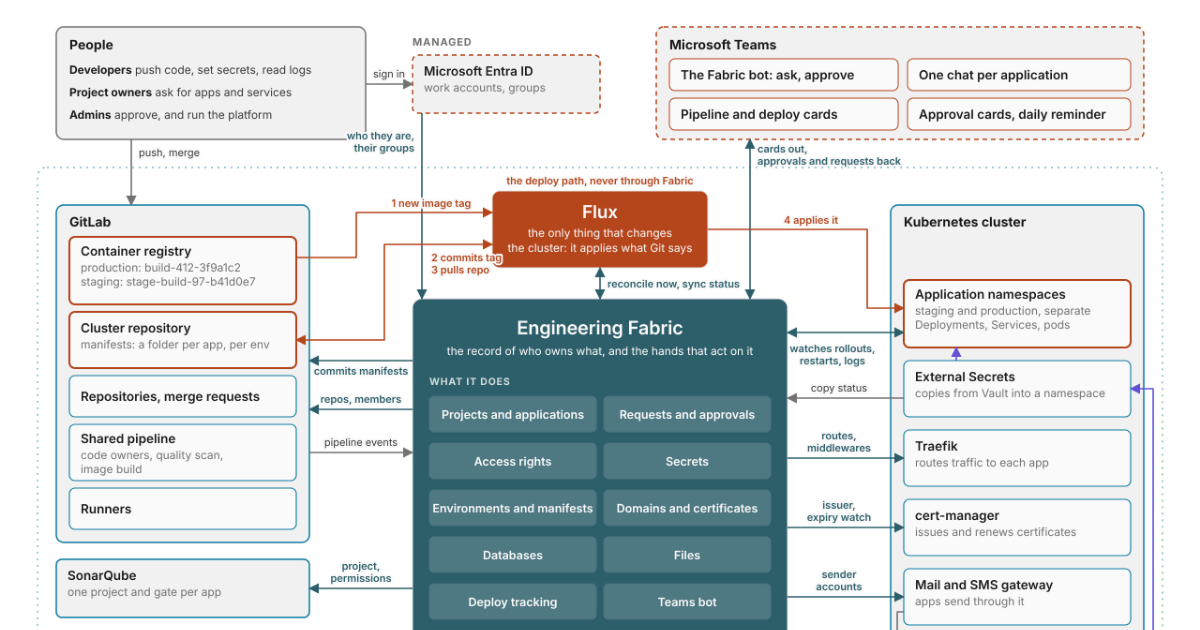
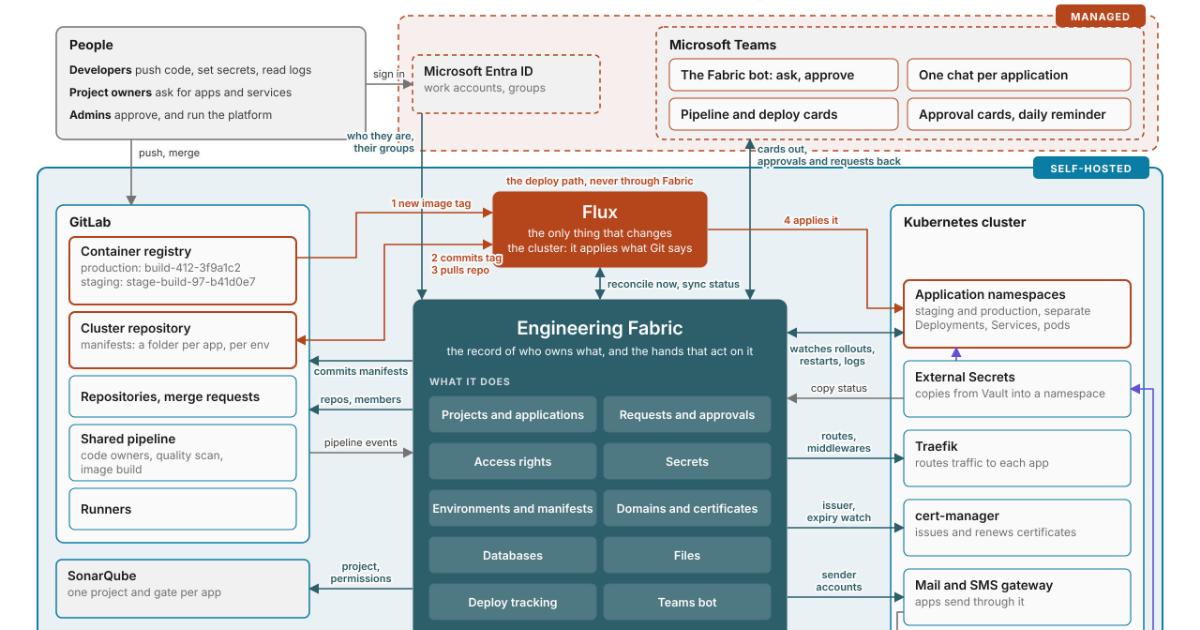
Writing: box the self-hosted and managed groups on the architecture map
Claude-Session: https://claude.ai/code/session_01SaRwWq1zZFY1QVVTNDxtey

diff --git a/blog/how-we-deploy-at-cb/index.html b/blog/how-we-deploy-at-cb/index.html
@@ -42,7 +42,7 @@
 <li>The purple line is the only route a secret value takes: Vault, External Secrets, the application's namespace.</li>
 </ul>
 
-<figure class='dg arch'><div class='dg-wrap'><svg viewBox='0 0 1240 1158' role='img' aria-labelledby='archt archd'><title id='archt'>Architecture: Engineering Fabric and the systems around it</title><desc id='archd'>Developers, project owners and admins sign in through Microsoft Entra ID and are reached in Microsoft Teams. Engineering Fabric, in the centre, creates repositories and sets members in GitLab, creates SonarQube projects, writes secrets to Vault, creates databases, commits manifests to the cluster repository, watches rollouts in Kubernetes, and manages DNS, file storage and API keys at Cloudflare, Backblaze B2 and Google Cloud. Deployments go from GitLab's registry to Flux to the cluster without passing through Fabric. Secret values go from Vault to External Secrets to the application's namespace.</desc><defs><marker id='arch-ink' class='mk-ink' viewBox='0 0 10 10' refX='9' refY='5' markerWidth='7' markerHeight='7' orient='auto-start-reverse'><path d='M0 0L10 5L0 10z'/></marker><marker id='arch-fab' class='mk-fab' viewBox='0 0 10 10' refX='9' refY='5' markerWidth='7' markerHeight='7' orient='auto-start-reverse'><path d='M0 0L10 5L0 10z'/></marker><marker id='arch-dep' class='mk-dep' viewBox='0 0 10 10' refX='9' refY='5' markerWidth='7' markerHeight='7' orient='auto-start-reverse'><path d='M0 0L10 5L0 10z'/></marker><marker id='arch-sec' class='mk-sec' viewBox='0 0 10 10' refX='9' refY='5' markerWidth='7' markerHeight='7' orient='auto-start-reverse'><path d='M0 0L10 5L0 10z'/></marker></defs><rect class='region' x='20' y='180' width='1200' height='848' rx='10'/><text class='grp' x='48' y='1004'>Self-hosted</text><text class='grp' x='420' y='50'>Managed</text><text class='grp' x='36' y='1068'>Managed</text><g class='actor'><rect class='n' x='40' y='30' width='330' height='120' rx='8'/><text class='zt' x='54' y='54'>People</text><text class='pl' x='54' y='80'><tspan class='pb'>Developers</tspan> push code, set secrets, read logs</text><text class='pl' x='54' y='104'><tspan class='pb'>Project owners</tspan> ask for apps and services</text><text class='pl' x='54' y='128'><tspan class='pb'>Admins</tspan> approve, and run the platform</text></g><g class='rent'><rect class='n' x='420' y='60' width='200' height='62' rx='6'/><text class='t' x='432' y='82'>Microsoft Entra ID</text><text x='432' y='99'>work accounts, groups</text></g><g class='rent'><rect class='n' x='680' y='30' width='520' height='120' rx='8'/><text class='zt' x='694' y='54'>Microsoft Teams</text></g><g class='rent in'><rect class='n' x='694' y='64' width='244' height='34' rx='6'/><text class='t' x='706' y='86'>The Fabric bot: ask, approve</text></g><g class='rent in'><rect class='n' x='948' y='64' width='238' height='34' rx='6'/><text class='t' x='960' y='86'>One chat per application</text></g><g class='rent in'><rect class='n' x='694' y='106' width='244' height='34' rx='6'/><text class='t' x='706' y='128'>Pipeline and deploy cards</text></g><g class='rent in'><rect class='n' x='948' y='106' width='238' height='34' rx='6'/><text class='t' x='960' y='128'>Approval cards, daily reminder</text></g><rect class='zone' x='40' y='220' width='270' height='360' rx='8'/><text class='zt' x='54' y='243'>GitLab</text><g class='own in dep'><rect class='n' x='54' y='254' width='242' height='72' rx='6'/><text class='t' x='66' y='274'>Container registry</text><text x='66' y='291'>production: build-412-3f9a1c2</text><text x='66' y='306'>staging: stage-build-97-b41d0e7</text></g><g class='own in dep'><rect class='n' x='54' y='334' width='242' height='60' rx='6'/><text class='t' x='66' y='356'>Cluster repository</text><text x='66' y='373'>manifests: a folder per app, per env</text></g><g class='own in'><rect class='n' x='54' y='402' width='242' height='44' rx='6'/><text class='t' x='66' y='429'>Repositories, merge requests</text></g><g class='own in'><rect class='n' x='54' y='454' width='242' height='60' rx='6'/><text class='t' x='66' y='474'>Shared pipeline</text><text x='66' y='491'>code owners, quality scan,</text><text x='66' y='506'>image build</text></g><g class='own in'><rect class='n' x='54' y='522' width='242' height='44' rx='6'/><text class='t' x='66' y='549'>Runners</text></g><g class='own'><rect class='n' x='40' y='598' width='270' height='62' rx='6'/><text class='t' x='52' y='620'>SonarQube</text><text x='52' y='637'>one project and gate per app</text></g><g class='own'><rect class='n' x='40' y='678' width='270' height='62' rx='6'/><text class='t' x='52' y='700'>Vault</text><text x='52' y='717'>one path per app and environment</text></g><g class='own'><rect class='n' x='40' y='758' width='270' height='62' rx='6'/><text class='t' x='52' y='780'>NetBird and Hoppscotch</text><text x='52' y='797'>VPN, API workspace per app</text></g><g class='own'><rect class='n' x='40' y='838' width='270' height='62' rx='6'/><text class='t' x='52' y='860'>Database servers</text><text x='52' y='877'>PostgreSQL and MySQL</text></g><g class='own'><rect class='n' x='40' y='918' width='270' height='62' rx='6'/><text class='t' x='52' y='940'>Renovate and Trivy</text><text x='52' y='957'>dependency updates, image scans</text></g><g class='flux'><rect x='505' y='205' width='230' height='82' rx='8'/><text class='t' x='620' y='234' text-anchor='middle'>Flux</text><text x='620' y='254' text-anchor='middle'>the only thing that changes</text><text x='620' y='270' text-anchor='middle'>the cluster: it applies what Git says</text></g><g class='hub'><rect x='420' y='320' width='400' height='680' rx='10'/><text class='t' x='620' y='358' text-anchor='middle'>Engineering Fabric</text><text x='620' y='380' text-anchor='middle'>the record of who owns what, and the hands that act on it</text><text class='hg' x='438' y='412'>What it does</text><rect class='chip' x='438' y='424' width='178' height='38' rx='5'/><text class='ct' x='527' y='448' text-anchor='middle'>Projects and applications</text><rect class='chip' x='624' y='424' width='178' height='38' rx='5'/><text class='ct' x='713' y='448' text-anchor='middle'>Requests and approvals</text><rect class='chip' x='438' y='474' width='178' height='38' rx='5'/><text class='ct' x='527' y='498' text-anchor='middle'>Access rights</text><rect class='chip' x='624' y='474' width='178' height='38' rx='5'/><text class='ct' x='713' y='498' text-anchor='middle'>Secrets</text><rect class='chip' x='438' y='524' width='178' height='38' rx='5'/><text class='ct' x='527' y='548' text-anchor='middle'>Environments and manifests</text><rect class='chip' x='624' y='524' width='178' height='38' rx='5'/><text class='ct' x='713' y='548' text-anchor='middle'>Domains and certificates</text><rect class='chip' x='438' y='574' width='178' height='38' rx='5'/><text class='ct' x='527' y='598' text-anchor='middle'>Databases</text><rect class='chip' x='624' y='574' width='178' height='38' rx='5'/><text class='ct' x='713' y='598' text-anchor='middle'>Files</text><rect class='chip' x='438' y='624' width='178' height='38' rx='5'/><text class='ct' x='527' y='648' text-anchor='middle'>Deploy tracking</text><rect class='chip' x='624' y='624' width='178' height='38' rx='5'/><text class='ct' x='713' y='648' text-anchor='middle'>Teams bot</text><rect class='chip' x='438' y='674' width='178' height='38' rx='5'/><text class='ct' x='527' y='698' text-anchor='middle'>Vulnerability scans</text><rect class='chip' x='624' y='674' width='178' height='38' rx='5'/><text class='ct' x='713' y='698' text-anchor='middle'>Audit log</text><text class='hg' x='438' y='770'>How it behaves</text><text class='hn' x='438' y='796'>Every change is recorded: who, what, when.</text><text class='hn' x='438' y='820'>Long jobs are Temporal workflows that resume</text><text class='hn' x='438' y='838'>where they stopped.</text><text class='hn' x='438' y='862'>Never reads a Kubernetes Secret.</text><text class='hn' x='438' y='886'>Changes the cluster only through Git.</text><text class='hn' x='438' y='910'>Deployed the same way as every other app.</text></g><rect class='zone' x='930' y='220' width='270' height='780' rx='8'/><text class='zt' x='944' y='243'>Kubernetes cluster</text><g class='own in dep'><rect class='n' x='944' y='300' width='242' height='72' rx='6'/><text class='t' x='956' y='320'>Application namespaces</text><text x='956' y='337'>staging and production, separate</text><text x='956' y='352'>Deployments, Services, pods</text></g><g class='own in'><rect class='n' x='944' y='386' width='242' height='60' rx='6'/><text class='t' x='956' y='408'>External Secrets</text><text x='956' y='425'>copies from Vault into a namespace</text></g><g class='own in'><rect class='n' x='944' y='460' width='242' height='60' rx='6'/><text class='t' x='956' y='482'>Traefik</text><text x='956' y='499'>routes traffic to each app</text></g><g class='own in'><rect class='n' x='944' y='534' width='242' height='60' rx='6'/><text class='t' x='956' y='556'>cert-manager</text><text x='956' y='573'>issues and renews certificates</text></g><g class='own in'><rect class='n' x='944' y='608' width='242' height='60' rx='6'/><text class='t' x='956' y='630'>Mail and SMS gateway</text><text x='956' y='647'>apps send through it</text></g><g class='own in'><rect class='n' x='944' y='682' width='242' height='60' rx='6'/><text class='t' x='956' y='704'>Internal tools</text><text x='956' y='721'>Jira, Metabase, wiki, DB consoles</text></g><g class='own in'><rect class='n' x='944' y='756' width='242' height='44' rx='6'/><text class='t' x='956' y='783'>Prometheus and Grafana</text></g><g class='own in'><rect class='n' x='944' y='814' width='242' height='60' rx='6'/><text class='t' x='956' y='836'>Backups and network</text><text x='956' y='853'>k8up, Cilium, Cloudflare Tunnel</text></g><g class='rent'><rect class='n' x='40' y='1078' width='190' height='62' rx='6'/><text class='t' x='52' y='1100'>Email and SMS providers</text><text x='52' y='1117'>delivery</text></g><g class='rent'><rect class='n' x='280' y='1078' width='190' height='62' rx='6'/><text class='t' x='292' y='1100'>Cloudflare</text><text x='292' y='1117'>DNS, public file CDN</text></g><g class='rent'><rect class='n' x='520' y='1078' width='190' height='62' rx='6'/><text class='t' x='532' y='1100'>Backblaze B2</text><text x='532' y='1117'>private file storage</text></g><g class='rent'><rect class='n' x='760' y='1078' width='190' height='62' rx='6'/><text class='t' x='772' y='1100'>Google Cloud</text><text x='772' y='1117'>Maps, reCAPTCHA, Firebase</text></g><g class='rent'><rect class='n' x='1000' y='1078' width='190' height='62' rx='6'/><text class='t' x='1012' y='1100'>Certificate authorities</text><text x='1012' y='1117'>free public certificates</text></g><path class='a a-ink' d='M120 150V220' marker-end='url(#arch-ink)'/><text class='al al-ink' x='128' y='168' text-anchor='start'>push, merge</text><path class='a a-ink' d='M370 91H420' marker-end='url(#arch-ink)'/><text class='al al-ink' x='395' y='84' text-anchor='middle'>sign in</text><path class='a a-fab' d='M430 122V320' marker-end='url(#arch-fab)'/><text class='al al-fab' x='422' y='150' text-anchor='end'>who they are,</text><text class='al al-fab' x='422' y='163' text-anchor='end'>their groups</text><path class='a a-fab' d='M780 150V320' marker-end='url(#arch-fab)' marker-start='url(#arch-fab)'/><text class='al al-fab' x='788' y='164' text-anchor='start'>cards out,</text><text class='al al-fab' x='788' y='177' text-anchor='start'>approvals and requests back</text><text class='al al-dep' x='620' y='198' text-anchor='middle'>the deploy path, never through Fabric</text><path class='a a-dep' d='M296 276H360V228H505' marker-end='url(#arch-dep)'/><text class='al al-dep' x='440' y='222' text-anchor='middle'>1 new image tag</text><path class='a a-dep' d='M296 364H390V262H505' marker-end='url(#arch-dep)' marker-start='url(#arch-dep)'/><text class='al al-dep' x='440' y='280' text-anchor='start'>2 commits tag</text><text class='al al-dep' x='440' y='293' text-anchor='start'>3 pulls repo</text><path class='a a-dep' d='M735 246H905V330H944' marker-end='url(#arch-dep)'/><text class='al al-dep' x='845' y='240' text-anchor='middle'>4 applies it</text><path class='a a-fab' d='M620 320V287' marker-end='url(#arch-fab)' marker-start='url(#arch-fab)'/><text class='al al-fab' x='628' y='308' text-anchor='start'>reconcile now, sync status</text><path class='a a-fab' d='M420 386H310' marker-end='url(#arch-fab)'/><text class='al al-fab' x='365' y='401' text-anchor='middle'>commits manifests</text><path class='a a-fab' d='M420 438H310' marker-end='url(#arch-fab)'/><text class='al al-fab' x='365' y='431' text-anchor='middle'>repos, members</text><path class='a a-ink' d='M310 484H420' marker-end='url(#arch-ink)'/><text class='al al-ink' x='365' y='477' text-anchor='middle'>pipeline events</text><path class='a a-fab' d='M420 629H310' marker-end='url(#arch-fab)'/><text class='al al-fab' x='365' y='609' text-anchor='middle'>project,</text><text class='al al-fab' x='365' y='622' text-anchor='middle'>permissions</text><path class='a a-sec' d='M420 709H310' marker-end='url(#arch-sec)'/><text class='al al-sec' x='365' y='702' text-anchor='middle'>writes secrets</text><path class='a a-fab' d='M420 789H310' marker-end='url(#arch-fab)'/><text class='al al-fab' x='365' y='769' text-anchor='middle'>VPN access,</text><text class='al al-fab' x='365' y='782' text-anchor='middle'>workspaces</text><path class='a a-fab' d='M420 869H310' marker-end='url(#arch-fab)'/><text class='al al-fab' x='365' y='849' text-anchor='middle'>databases,</text><text class='al al-fab' x='365' y='862' text-anchor='middle'>logins, grants</text><path class='a a-fab' d='M420 949H310' marker-end='url(#arch-fab)' marker-start='url(#arch-fab)'/><text class='al al-fab' x='365' y='929' text-anchor='middle'>starts scans,</text><text class='al al-fab' x='365' y='942' text-anchor='middle'>reads findings</text><path class='a a-fab' d='M820 356H944' marker-end='url(#arch-fab)' marker-start='url(#arch-fab)'/><text class='al al-fab' x='868' y='377' text-anchor='middle'>watches rollouts,</text><text class='al al-fab' x='868' y='390' text-anchor='middle'>restarts, logs</text><path class='a a-ink' d='M944 426H820' marker-end='url(#arch-ink)'/><text class='al al-ink' x='875' y='419' text-anchor='middle'>copy status</text><path class='a a-fab' d='M820 490H944' marker-end='url(#arch-fab)'/><text class='al al-fab' x='875' y='470' text-anchor='middle'>routes,</text><text class='al al-fab' x='875' y='483' text-anchor='middle'>middlewares</text><path class='a a-fab' d='M820 564H944' marker-end='url(#arch-fab)'/><text class='al al-fab' x='875' y='544' text-anchor='middle'>issuer,</text><text class='al al-fab' x='875' y='557' text-anchor='middle'>expiry watch</text><path class='a a-fab' d='M820 638H944' marker-end='url(#arch-fab)'/><text class='al al-fab' x='875' y='618' text-anchor='middle'>sender</text><text class='al al-fab' x='875' y='631' text-anchor='middle'>accounts</text><path class='a a-fab' d='M820 712H944' marker-end='url(#arch-fab)'/><text class='al al-fab' x='875' y='692' text-anchor='middle'>who gets</text><text class='al al-fab' x='875' y='705' text-anchor='middle'>into what</text><path class='a a-fab' d='M450 1000V1078' marker-end='url(#arch-fab)'/><text class='al al-fab' x='458' y='1060' text-anchor='start'>DNS records, files</text><path class='a a-fab' d='M615 1000V1078' marker-end='url(#arch-fab)'/><text class='al al-fab' x='623' y='1060' text-anchor='start'>buckets, keys</text><path class='a a-fab' d='M790 1000V1078' marker-end='url(#arch-fab)'/><text class='al al-fab' x='798' y='1060' text-anchor='start'>keys, projects</text><path class='a a-sec' d='M40 709H30V1014H1210V416H1186' marker-end='url(#arch-sec)'/><text class='al al-sec' x='620' y='1009' text-anchor='middle'>secret values: Vault to External Secrets, then into the app&#x27;s namespace</text><path class='a a-sec' d='M1000 386V372' marker-end='url(#arch-sec)'/><path class='a a-ink' d='M1095 1000V1078' marker-end='url(#arch-ink)'/><text class='al al-ink' x='1103' y='1060' text-anchor='start'>requests certificates</text><path class='a a-ink' d='M944 654H937V1040H135V1078' marker-end='url(#arch-ink)'/><text class='al al-ink' x='250' y='1035' text-anchor='middle'>mail and SMS out</text></svg></div><div class='legend'><span><i class='own'></i>self-hosted</span><span><i class='rent'></i>managed</span><span><i class='fab'></i>Fabric makes a change or reads a status</span><span><i class='dep'></i>the deploy path</span><span><i class='sec'></i>secret values</span></div><p class='full'><a href='img/architecture.png'>Open the diagram full size</a></p><figcaption><span class='fignum'>Figure 1.</span> Engineering Fabric and everything it connects. Flux sits between Git and the cluster. The twelve tiles inside Fabric are its own modules; each one is covered below.</figcaption></figure>
+<figure class='dg arch'><div class='dg-wrap'><svg viewBox='0 0 1240 1166' role='img' aria-labelledby='archt archd'><title id='archt'>Architecture: Engineering Fabric and the systems around it</title><desc id='archd'>Developers, project owners and admins sign in through Microsoft Entra ID and are reached in Microsoft Teams. Engineering Fabric, in the centre, creates repositories and sets members in GitLab, creates SonarQube projects, writes secrets to Vault, creates databases, commits manifests to the cluster repository, watches rollouts in Kubernetes, and manages DNS, file storage and API keys at Cloudflare, Backblaze B2 and Google Cloud. Deployments go from GitLab's registry to Flux to the cluster without passing through Fabric. Secret values go from Vault to External Secrets to the application's namespace.</desc><defs><marker id='arch-ink' class='mk-ink' viewBox='0 0 10 10' refX='9' refY='5' markerWidth='7' markerHeight='7' orient='auto-start-reverse'><path d='M0 0L10 5L0 10z'/></marker><marker id='arch-fab' class='mk-fab' viewBox='0 0 10 10' refX='9' refY='5' markerWidth='7' markerHeight='7' orient='auto-start-reverse'><path d='M0 0L10 5L0 10z'/></marker><marker id='arch-dep' class='mk-dep' viewBox='0 0 10 10' refX='9' refY='5' markerWidth='7' markerHeight='7' orient='auto-start-reverse'><path d='M0 0L10 5L0 10z'/></marker><marker id='arch-sec' class='mk-sec' viewBox='0 0 10 10' refX='9' refY='5' markerWidth='7' markerHeight='7' orient='auto-start-reverse'><path d='M0 0L10 5L0 10z'/></marker></defs><rect class='mregion' x='405' y='18' width='810' height='144' rx='10'/><rect class='mregion' x='25' y='1068' width='1190' height='86' rx='10'/><rect class='region' x='20' y='180' width='1200' height='848' rx='10'/><g class='tab own'><rect x='1082' y='168' width='124' height='24' rx='5'/><text x='1144' y='185' text-anchor='middle'>Self-hosted</text></g><g class='tab rent'><rect x='1106' y='6' width='96' height='24' rx='5'/><text x='1154' y='23' text-anchor='middle'>Managed</text></g><g class='tab rent'><rect x='1106' y='1056' width='96' height='24' rx='5'/><text x='1154' y='1073' text-anchor='middle'>Managed</text></g><g class='actor'><rect class='n' x='40' y='30' width='330' height='120' rx='8'/><text class='zt' x='54' y='54'>People</text><text class='pl' x='54' y='80'><tspan class='pb'>Developers</tspan> push code, set secrets, read logs</text><text class='pl' x='54' y='104'><tspan class='pb'>Project owners</tspan> ask for apps and services</text><text class='pl' x='54' y='128'><tspan class='pb'>Admins</tspan> approve, and run the platform</text></g><g class='rent'><rect class='n' x='420' y='60' width='200' height='62' rx='6'/><text class='t' x='432' y='82'>Microsoft Entra ID</text><text x='432' y='99'>work accounts, groups</text></g><g class='rent'><rect class='n' x='680' y='30' width='520' height='120' rx='8'/><text class='zt' x='694' y='54'>Microsoft Teams</text></g><g class='rent in'><rect class='n' x='694' y='64' width='244' height='34' rx='6'/><text class='t' x='706' y='86'>The Fabric bot: ask, approve</text></g><g class='rent in'><rect class='n' x='948' y='64' width='238' height='34' rx='6'/><text class='t' x='960' y='86'>One chat per application</text></g><g class='rent in'><rect class='n' x='694' y='106' width='244' height='34' rx='6'/><text class='t' x='706' y='128'>Pipeline and deploy cards</text></g><g class='rent in'><rect class='n' x='948' y='106' width='238' height='34' rx='6'/><text class='t' x='960' y='128'>Approval cards, daily reminder</text></g><rect class='zone' x='40' y='220' width='270' height='360' rx='8'/><text class='zt' x='54' y='243'>GitLab</text><g class='own in dep'><rect class='n' x='54' y='254' width='242' height='72' rx='6'/><text class='t' x='66' y='274'>Container registry</text><text x='66' y='291'>production: build-412-3f9a1c2</text><text x='66' y='306'>staging: stage-build-97-b41d0e7</text></g><g class='own in dep'><rect class='n' x='54' y='334' width='242' height='60' rx='6'/><text class='t' x='66' y='356'>Cluster repository</text><text x='66' y='373'>manifests: a folder per app, per env</text></g><g class='own in'><rect class='n' x='54' y='402' width='242' height='44' rx='6'/><text class='t' x='66' y='429'>Repositories, merge requests</text></g><g class='own in'><rect class='n' x='54' y='454' width='242' height='60' rx='6'/><text class='t' x='66' y='474'>Shared pipeline</text><text x='66' y='491'>code owners, quality scan,</text><text x='66' y='506'>image build</text></g><g class='own in'><rect class='n' x='54' y='522' width='242' height='44' rx='6'/><text class='t' x='66' y='549'>Runners</text></g><g class='own'><rect class='n' x='40' y='598' width='270' height='62' rx='6'/><text class='t' x='52' y='620'>SonarQube</text><text x='52' y='637'>one project and gate per app</text></g><g class='own'><rect class='n' x='40' y='678' width='270' height='62' rx='6'/><text class='t' x='52' y='700'>Vault</text><text x='52' y='717'>one path per app and environment</text></g><g class='own'><rect class='n' x='40' y='758' width='270' height='62' rx='6'/><text class='t' x='52' y='780'>NetBird and Hoppscotch</text><text x='52' y='797'>VPN, API workspace per app</text></g><g class='own'><rect class='n' x='40' y='838' width='270' height='62' rx='6'/><text class='t' x='52' y='860'>Database servers</text><text x='52' y='877'>PostgreSQL and MySQL</text></g><g class='own'><rect class='n' x='40' y='918' width='270' height='62' rx='6'/><text class='t' x='52' y='940'>Renovate and Trivy</text><text x='52' y='957'>dependency updates, image scans</text></g><g class='flux'><rect x='505' y='205' width='230' height='82' rx='8'/><text class='t' x='620' y='234' text-anchor='middle'>Flux</text><text x='620' y='254' text-anchor='middle'>the only thing that changes</text><text x='620' y='270' text-anchor='middle'>the cluster: it applies what Git says</text></g><g class='hub'><rect x='420' y='320' width='400' height='680' rx='10'/><text class='t' x='620' y='358' text-anchor='middle'>Engineering Fabric</text><text x='620' y='380' text-anchor='middle'>the record of who owns what, and the hands that act on it</text><text class='hg' x='438' y='412'>What it does</text><rect class='chip' x='438' y='424' width='178' height='38' rx='5'/><text class='ct' x='527' y='448' text-anchor='middle'>Projects and applications</text><rect class='chip' x='624' y='424' width='178' height='38' rx='5'/><text class='ct' x='713' y='448' text-anchor='middle'>Requests and approvals</text><rect class='chip' x='438' y='474' width='178' height='38' rx='5'/><text class='ct' x='527' y='498' text-anchor='middle'>Access rights</text><rect class='chip' x='624' y='474' width='178' height='38' rx='5'/><text class='ct' x='713' y='498' text-anchor='middle'>Secrets</text><rect class='chip' x='438' y='524' width='178' height='38' rx='5'/><text class='ct' x='527' y='548' text-anchor='middle'>Environments and manifests</text><rect class='chip' x='624' y='524' width='178' height='38' rx='5'/><text class='ct' x='713' y='548' text-anchor='middle'>Domains and certificates</text><rect class='chip' x='438' y='574' width='178' height='38' rx='5'/><text class='ct' x='527' y='598' text-anchor='middle'>Databases</text><rect class='chip' x='624' y='574' width='178' height='38' rx='5'/><text class='ct' x='713' y='598' text-anchor='middle'>Files</text><rect class='chip' x='438' y='624' width='178' height='38' rx='5'/><text class='ct' x='527' y='648' text-anchor='middle'>Deploy tracking</text><rect class='chip' x='624' y='624' width='178' height='38' rx='5'/><text class='ct' x='713' y='648' text-anchor='middle'>Teams bot</text><rect class='chip' x='438' y='674' width='178' height='38' rx='5'/><text class='ct' x='527' y='698' text-anchor='middle'>Vulnerability scans</text><rect class='chip' x='624' y='674' width='178' height='38' rx='5'/><text class='ct' x='713' y='698' text-anchor='middle'>Audit log</text><text class='hg' x='438' y='770'>How it behaves</text><text class='hn' x='438' y='796'>Every change is recorded: who, what, when.</text><text class='hn' x='438' y='820'>Long jobs are Temporal workflows that resume</text><text class='hn' x='438' y='838'>where they stopped.</text><text class='hn' x='438' y='862'>Never reads a Kubernetes Secret.</text><text class='hn' x='438' y='886'>Changes the cluster only through Git.</text><text class='hn' x='438' y='910'>Deployed the same way as every other app.</text></g><rect class='zone' x='930' y='220' width='270' height='780' rx='8'/><text class='zt' x='944' y='243'>Kubernetes cluster</text><g class='own in dep'><rect class='n' x='944' y='300' width='242' height='72' rx='6'/><text class='t' x='956' y='320'>Application namespaces</text><text x='956' y='337'>staging and production, separate</text><text x='956' y='352'>Deployments, Services, pods</text></g><g class='own in'><rect class='n' x='944' y='386' width='242' height='60' rx='6'/><text class='t' x='956' y='408'>External Secrets</text><text x='956' y='425'>copies from Vault into a namespace</text></g><g class='own in'><rect class='n' x='944' y='460' width='242' height='60' rx='6'/><text class='t' x='956' y='482'>Traefik</text><text x='956' y='499'>routes traffic to each app</text></g><g class='own in'><rect class='n' x='944' y='534' width='242' height='60' rx='6'/><text class='t' x='956' y='556'>cert-manager</text><text x='956' y='573'>issues and renews certificates</text></g><g class='own in'><rect class='n' x='944' y='608' width='242' height='60' rx='6'/><text class='t' x='956' y='630'>Mail and SMS gateway</text><text x='956' y='647'>apps send through it</text></g><g class='own in'><rect class='n' x='944' y='682' width='242' height='60' rx='6'/><text class='t' x='956' y='704'>Internal tools</text><text x='956' y='721'>Jira, Metabase, wiki, DB consoles</text></g><g class='own in'><rect class='n' x='944' y='756' width='242' height='44' rx='6'/><text class='t' x='956' y='783'>Prometheus and Grafana</text></g><g class='own in'><rect class='n' x='944' y='814' width='242' height='60' rx='6'/><text class='t' x='956' y='836'>Backups and network</text><text x='956' y='853'>k8up, Cilium, Cloudflare Tunnel</text></g><g class='rent'><rect class='n' x='40' y='1082' width='190' height='62' rx='6'/><text class='t' x='52' y='1104'>Email and SMS providers</text><text x='52' y='1121'>delivery</text></g><g class='rent'><rect class='n' x='280' y='1082' width='190' height='62' rx='6'/><text class='t' x='292' y='1104'>Cloudflare</text><text x='292' y='1121'>DNS, public file CDN</text></g><g class='rent'><rect class='n' x='520' y='1082' width='190' height='62' rx='6'/><text class='t' x='532' y='1104'>Backblaze B2</text><text x='532' y='1121'>private file storage</text></g><g class='rent'><rect class='n' x='760' y='1082' width='190' height='62' rx='6'/><text class='t' x='772' y='1104'>Google Cloud</text><text x='772' y='1121'>Maps, reCAPTCHA, Firebase</text></g><g class='rent'><rect class='n' x='1000' y='1082' width='190' height='62' rx='6'/><text class='t' x='1012' y='1104'>Certificate authorities</text><text x='1012' y='1121'>free public certificates</text></g><path class='a a-ink' d='M120 150V220' marker-end='url(#arch-ink)'/><text class='al al-ink' x='128' y='168' text-anchor='start'>push, merge</text><path class='a a-ink' d='M370 91H420' marker-end='url(#arch-ink)'/><text class='al al-ink' x='395' y='84' text-anchor='middle'>sign in</text><path class='a a-fab' d='M430 122V320' marker-end='url(#arch-fab)'/><text class='al al-fab' x='422' y='150' text-anchor='end'>who they are,</text><text class='al al-fab' x='422' y='163' text-anchor='end'>their groups</text><path class='a a-fab' d='M780 150V320' marker-end='url(#arch-fab)' marker-start='url(#arch-fab)'/><text class='al al-fab' x='788' y='164' text-anchor='start'>cards out,</text><text class='al al-fab' x='788' y='177' text-anchor='start'>approvals and requests back</text><text class='al al-dep' x='620' y='198' text-anchor='middle'>the deploy path, never through Fabric</text><path class='a a-dep' d='M296 276H360V228H505' marker-end='url(#arch-dep)'/><text class='al al-dep' x='440' y='222' text-anchor='middle'>1 new image tag</text><path class='a a-dep' d='M296 364H390V262H505' marker-end='url(#arch-dep)' marker-start='url(#arch-dep)'/><text class='al al-dep' x='440' y='280' text-anchor='start'>2 commits tag</text><text class='al al-dep' x='440' y='293' text-anchor='start'>3 pulls repo</text><path class='a a-dep' d='M735 246H905V330H944' marker-end='url(#arch-dep)'/><text class='al al-dep' x='845' y='240' text-anchor='middle'>4 applies it</text><path class='a a-fab' d='M620 320V287' marker-end='url(#arch-fab)' marker-start='url(#arch-fab)'/><text class='al al-fab' x='628' y='308' text-anchor='start'>reconcile now, sync status</text><path class='a a-fab' d='M420 386H310' marker-end='url(#arch-fab)'/><text class='al al-fab' x='365' y='401' text-anchor='middle'>commits manifests</text><path class='a a-fab' d='M420 438H310' marker-end='url(#arch-fab)'/><text class='al al-fab' x='365' y='431' text-anchor='middle'>repos, members</text><path class='a a-ink' d='M310 484H420' marker-end='url(#arch-ink)'/><text class='al al-ink' x='365' y='477' text-anchor='middle'>pipeline events</text><path class='a a-fab' d='M420 629H310' marker-end='url(#arch-fab)'/><text class='al al-fab' x='365' y='609' text-anchor='middle'>project,</text><text class='al al-fab' x='365' y='622' text-anchor='middle'>permissions</text><path class='a a-sec' d='M420 709H310' marker-end='url(#arch-sec)'/><text class='al al-sec' x='365' y='702' text-anchor='middle'>writes secrets</text><path class='a a-fab' d='M420 789H310' marker-end='url(#arch-fab)'/><text class='al al-fab' x='365' y='769' text-anchor='middle'>VPN access,</text><text class='al al-fab' x='365' y='782' text-anchor='middle'>workspaces</text><path class='a a-fab' d='M420 869H310' marker-end='url(#arch-fab)'/><text class='al al-fab' x='365' y='849' text-anchor='middle'>databases,</text><text class='al al-fab' x='365' y='862' text-anchor='middle'>logins, grants</text><path class='a a-fab' d='M420 949H310' marker-end='url(#arch-fab)' marker-start='url(#arch-fab)'/><text class='al al-fab' x='365' y='929' text-anchor='middle'>starts scans,</text><text class='al al-fab' x='365' y='942' text-anchor='middle'>reads findings</text><path class='a a-fab' d='M820 356H944' marker-end='url(#arch-fab)' marker-start='url(#arch-fab)'/><text class='al al-fab' x='868' y='377' text-anchor='middle'>watches rollouts,</text><text class='al al-fab' x='868' y='390' text-anchor='middle'>restarts, logs</text><path class='a a-ink' d='M944 426H820' marker-end='url(#arch-ink)'/><text class='al al-ink' x='875' y='419' text-anchor='middle'>copy status</text><path class='a a-fab' d='M820 490H944' marker-end='url(#arch-fab)'/><text class='al al-fab' x='875' y='470' text-anchor='middle'>routes,</text><text class='al al-fab' x='875' y='483' text-anchor='middle'>middlewares</text><path class='a a-fab' d='M820 564H944' marker-end='url(#arch-fab)'/><text class='al al-fab' x='875' y='544' text-anchor='middle'>issuer,</text><text class='al al-fab' x='875' y='557' text-anchor='middle'>expiry watch</text><path class='a a-fab' d='M820 638H944' marker-end='url(#arch-fab)'/><text class='al al-fab' x='875' y='618' text-anchor='middle'>sender</text><text class='al al-fab' x='875' y='631' text-anchor='middle'>accounts</text><path class='a a-fab' d='M820 712H944' marker-end='url(#arch-fab)'/><text class='al al-fab' x='875' y='692' text-anchor='middle'>who gets</text><text class='al al-fab' x='875' y='705' text-anchor='middle'>into what</text><path class='a a-fab' d='M450 1000V1082' marker-end='url(#arch-fab)'/><text class='al al-fab' x='458' y='1052' text-anchor='start'>DNS records, files</text><path class='a a-fab' d='M615 1000V1082' marker-end='url(#arch-fab)'/><text class='al al-fab' x='623' y='1052' text-anchor='start'>buckets, keys</text><path class='a a-fab' d='M790 1000V1082' marker-end='url(#arch-fab)'/><text class='al al-fab' x='798' y='1052' text-anchor='start'>keys, projects</text><path class='a a-sec' d='M40 709H30V1014H1210V416H1186' marker-end='url(#arch-sec)'/><text class='al al-sec' x='620' y='1009' text-anchor='middle'>secret values: Vault to External Secrets, then into the app&#x27;s namespace</text><path class='a a-sec' d='M1000 386V372' marker-end='url(#arch-sec)'/><path class='a a-ink' d='M1095 1000V1082' marker-end='url(#arch-ink)'/><text class='al al-ink' x='1103' y='1052' text-anchor='start'>requests certificates</text><path class='a a-ink' d='M944 654H937V1040H135V1082' marker-end='url(#arch-ink)'/><text class='al al-ink' x='250' y='1035' text-anchor='middle'>mail and SMS out</text></svg></div><div class='legend'><span><i class='own'></i>self-hosted</span><span><i class='rent'></i>managed</span><span><i class='fab'></i>Fabric makes a change or reads a status</span><span><i class='dep'></i>the deploy path</span><span><i class='sec'></i>secret values</span></div><p class='full'><a href='img/architecture.png'>Open the diagram full size</a></p><figcaption><span class='fignum'>Figure 1.</span> Engineering Fabric and everything it connects. Flux sits between Git and the cluster. The twelve tiles inside Fabric are its own modules; each one is covered below.</figcaption></figure>
 
 <p>Two things in that picture were decisions, not accidents. The first is that Fabric has no arrow into the deploy path. A merge reaches production through GitLab, the registry and Flux, and none of those ask Fabric for anything. Fabric sets things up beforehand and reports afterwards. The second is that Fabric never creates anything in the cluster directly. It commits files to the cluster repository like a person would, and Flux applies them. What Fabric does directly in Kubernetes is read, plus a restart when someone asks for one.</p>
 

diff --git a/blog/blog.css b/blog/blog.css
@@ -306,3 +306,8 @@ details.fold { margin: 0.6rem 0 1rem; max-width: 960px; } details.fold summary {
 .dg .dep.in rect.n { stroke: var(--chart-2); stroke-width: 2; }
 .post figure.cards .two { max-width: 720px; align-items: start; } .post figure.cards img { border: 1px solid var(--mist); border-radius: 8px; }
 .dg .flux rect { fill: var(--chart-2); } .dg .flux text { fill: var(--paper); font-size: 12px; } .dg .flux text.t { fill: var(--paper); font-size: 19px; }
+.dg rect.region { fill: color-mix(in srgb, var(--chart-1) 7%, var(--paper)); stroke: var(--chart-1); stroke-width: 2; stroke-dasharray: none; opacity: 1; }
+.dg rect.mregion { fill: color-mix(in srgb, var(--chart-2) 6%, var(--paper)); stroke: var(--chart-2); stroke-width: 1.5; stroke-dasharray: 6 5; }
+.dg .tab rect { stroke: none; } .dg .tab.own rect { fill: var(--chart-1); } .dg .tab.rent rect { fill: var(--chart-2); }
+.dg .tab text { fill: var(--paper); font-size: 11px; font-weight: 700; letter-spacing: 0.08em; text-transform: uppercase; }
+.dg rect.zone { fill: var(--paper); }
